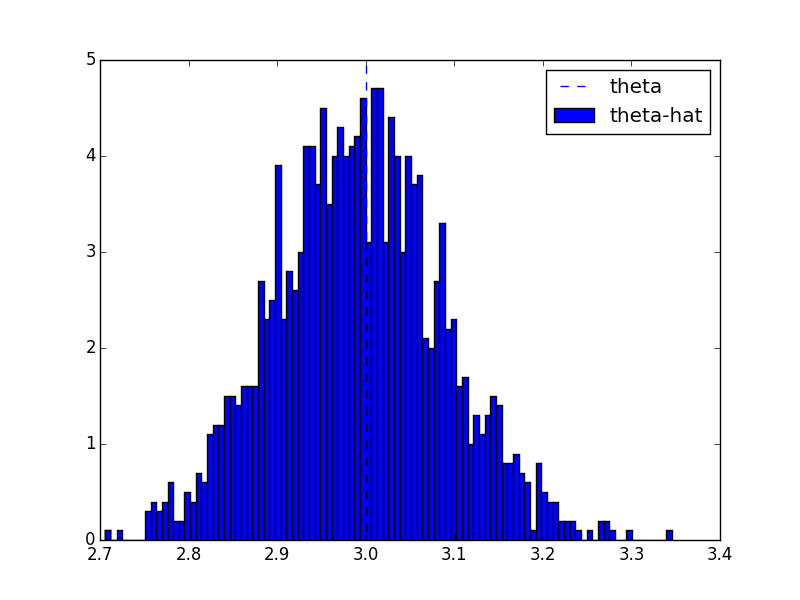
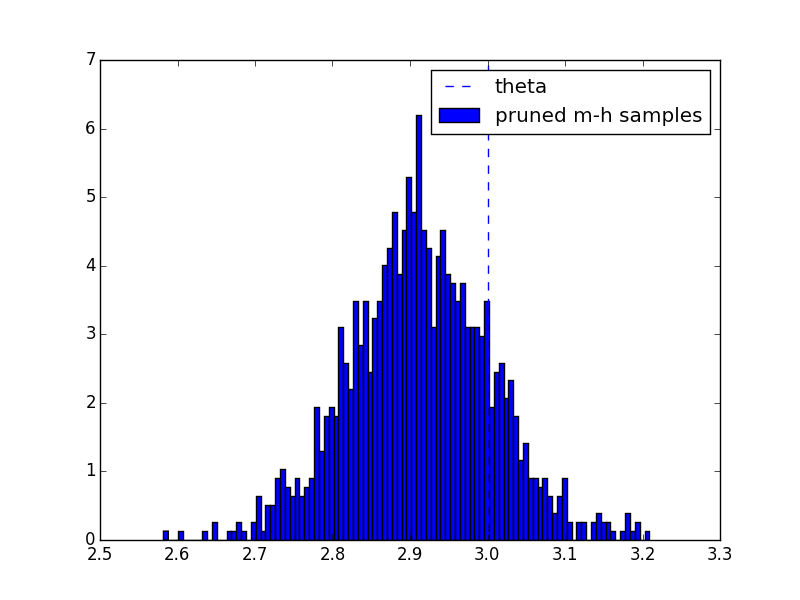
simulated annealing example

diff --git a/bin/examples.py b/bin/examples.py
@@ -20,7 +20,7 @@ def example_1():
     plt.xlabel('x')
     plt.ylabel('normalized count')
     plt.legend()
-    # plt.savefig('img/example-1.png')
+    # plt.savefig('../img/example-1.png')
     plt.show()
 
 def example_2():
@@ -37,12 +37,35 @@ def example_2():
     print 'Generated {0} samples after pruning from {1}.'.format(len(ahs), len(ahs0))
     print min(ahs), max(ahs)
 
-    plt.hist(ahs, 100, normed=True, label='theta-hat')
     plt.axvline(a, label='theta', color='b', linestyle='--')
+    plt.hist(ahs, 100, normed=True, label='pruned m-h samples')
     plt.legend()
-    # plt.savefig('img/example-2.png')
+    plt.savefig('../img/example-2.png')
+    plt.show()
+
+def example_3():
+    a, c = 3, 1
+    data = exponweib.rvs(a, c, size=1000)
+    l = round(max(data) - min(data))
+    pf = lambda ah, ch=c, d=data: np.sum(np.log(exponweib.pdf(data, ah, ch)))
+
+    d = 1.0
+    Tf = lambda i: d/np.log(i+2) # cooling function
+
+    e = 1 # step size of random-walk
+    qrf = lambda x, e=e: norm.rvs(x, e)
+    ahs0 = metropolis_hastings(2, 100000, pf, qrf, Tf)
+    print 'Generated {0} samples. MAP estimate is {1}'.format(len(ahs0), ahs0[-1])
+
+    plt.hist(ahs0, 100, normed=True, label='samples')
+    plt.axvline(a, label='theta', color='b', linestyle='--')
+    plt.axvline(ahs0[-1], label='theta-hat', color='c', linestyle='--')
+    plt.xlim([2.8, 3.4])
+    plt.legend()
+    plt.savefig('../img/example-3.png')
     plt.show()
 
 if __name__ == '__main__':
-    example_1()
-    # example_2()
+    # example_1()
+    example_2()
+    # example_3()

diff --git a/README.md b/README.md
@@ -22,7 +22,7 @@ But `example_1()` is more like a sanity-check, isn't it? If we hand M-H the pdf,
 
 On the other hand, `example_2()` is a little closer to what we'd want M-H to do. It simulates data from a weibull pdf given shape and scale parameters, and M-H tries to generate samples of (i.e. fit) the shape parameter, by calculating the log-likelihood of the simulated data.
 
-So now, the generated samples are all estimates of the shape parameter. The shape parameter used to simulate the data was 3. The estimates cluster around 3, which is good, though this is not always the case given multiple simulations.
+So now, the generated samples are all estimates of the shape parameter. The shape parameter used to simulate the data was 3, with a fairly small sample size of only 1000. The estimates cluster near but not quite at 3, which is fine, though repeated simulations would probably show more encouraging results (since here I'm simulating such a low sample size).
 
 ![Example of posterior samples from M-H](/img/example-2.png?raw=true "Example of posterior samples from M-H")
 
@@ -34,9 +34,9 @@ Simulated annealing (good overview [here](http://stuff.mit.edu/~dbertsim/papers/
 
 Using M-H to approximate the mode of the posterior is inefficient since it tries to spread itself along the entire posterior. Simulated annealing, however, uses its cooling schedule function to slowly hone in on the mode of the posterior.
 
-One common choice of a cooling schedule `T` is as follows:
+One common choice of a cooling schedule function `T(i)` is, for a given `d`:
 
-    T = lambda i: (C*log(i + T_0)) − 1 # for some C and T_0
+    T = lambda i: d/np.log(i+2)
 
 (The only rules for `T` is that it must be non-increasing, and as i -> ∞, T(i) -> 0.)
 
@@ -44,13 +44,20 @@ Now, at each iteration, the `p_pdf_fcn` of `metropolis_hastings()` is instead ca
 
 The very last sample generated is your MAP estimate of the posterior.
 
+### Example 3: Simulated annealing MAP estimate.
+
+Just as the spread of the proposal function is crucial to fully exploring the posterior in M-H, here the choice and parameters of your cooling function are crucial to appropriately estimating the mode of the posterior.
+
+In the example below, I somewhat hastily chose `d = 1`. Just as in Example 2, the sample size of my simulated data set is only 1000, so though the theta that generated the data was 3, it's not too surprising that our MAP estimate for theta is not exactly three.
+
+![Example of MAP from simulated annealing](/img/example-3.png?raw=true "Example of MAP from simulated annealing")
+
+So what are the relative tradeoffs apparent so far between M-H and simulated annealing? Well, M-H aims to simulate the entire posterior, which is inefficient if you're just looking for an estimate of the mode. Simulated annealing, on the other hand, should converge on this mode in fewer iterations, but you now have an additional parameter to adjust. (And adjusting this parameter involves, ironically enough, assessing the shape of your posterior.)
 
 ### Future examples
 
-* Example 3: Fitting scale _and_ shape parameters of data generated by a weibull pdf.
+* Example 4: Fitting scale _and_ shape parameters of data generated by a weibull pdf.
 
-* Example 4: Fitting with a prior over parameters.
+* Example 5: Fitting with a prior over parameters.
 
-* Example 5: Comparing M-H to simply minimizing likelihood.
-
-* Example 6: Simulated annealing MAP estimate.
+* Example 6: Comparing M-H to simply minimizing likelihood.
